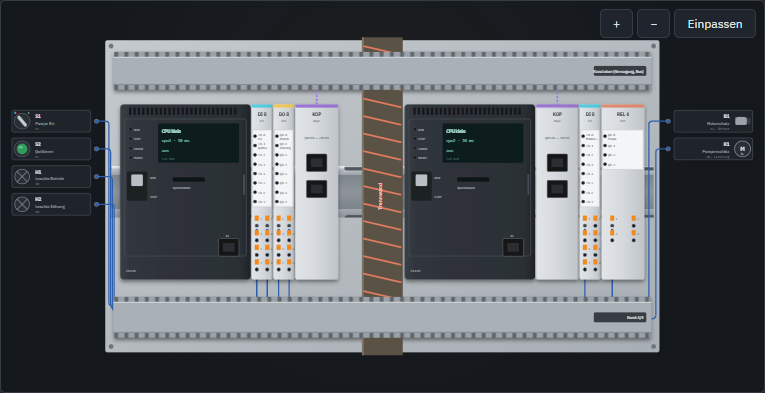
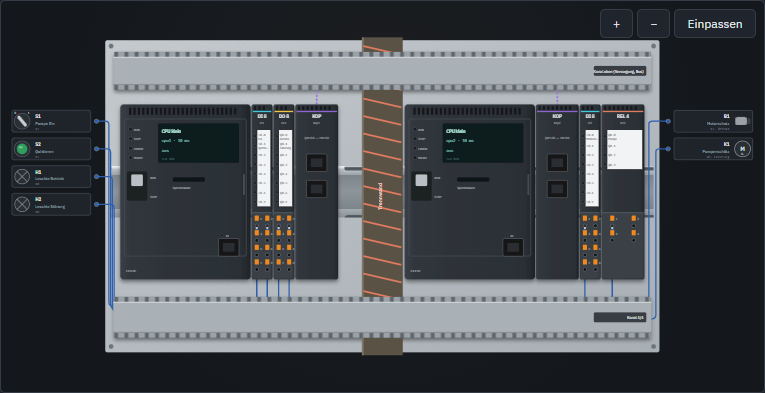
style: E/A-Baugruppen im Gehäuse und Farbschema der CPU

Changed region(s): [[0.6915, 0.2443, 0.8418, 0.7328], [0.3307, 0.2443, 0.451, 0.7328]]

diff --git a/apps/game/src/components/cabinet/Hardware.tsx b/apps/game/src/components/cabinet/Hardware.tsx
@@ -448,14 +448,42 @@ export function IoFront({
   const rowH = perCol ? Math.min(6.4, 52 / perCol) : 0;
   const narrow = colW < 16;
   const symChars = narrow ? 8 : 11;
+  const termTop = y + h - 46;
   return (
     <g className="hw-io">
-      <rect x={left} y={y} width={w} height={h} rx={1.6} fill="url(#hw-io)" />
-      <rect x={left} y={y} width={w} height={2.2} rx={1} fill={stripe} opacity={0.85} />
-      <text x={left + w / 2} y={y + 8} className="hw-name">
+      <rect x={left} y={y} width={w} height={h} rx={1.6} fill="url(#hw-housing)" />
+      {/* Lüftungsschlitze wie an der CPU */}
+      {Array.from({ length: Math.max(1, Math.floor((w - 3) / 3)) }, (_, i) => (
+        <rect
+          key={i}
+          x={left + 1.8 + i * 3}
+          y={y + 1.2}
+          width={1.4}
+          height={2.6}
+          rx={0.5}
+          fill="#15181B"
+        />
+      ))}
+      {/* Kennfarbe der Baugruppe */}
+      <rect x={left + 0.8} y={y + 4.4} width={w - 1.6} height={0.9} rx={0.4} fill={stripe} />
+      {/* Klemmenblock */}
+      {rows > 0 && (
+        <g>
+          <rect
+            x={left + 0.5}
+            y={termTop}
+            width={w - 1}
+            height={h - (termTop - y) - 0.6}
+            rx={1}
+            fill="#3A4047"
+          />
+          <rect x={left + 0.5} y={termTop} width={w - 1} height={0.5} fill="#596169" />
+        </g>
+      )}
+      <text x={left + w / 2} y={y + 9.4} className="hw-name">
         {title ?? tr(t.name)}
       </text>
-      <text x={left + w / 2} y={y + 12.2} className="hw-sub">
+      <text x={left + w / 2} y={y + 13.2} className="hw-sub">
         {id}
       </text>
       {t.alarms && (
@@ -464,17 +492,20 @@ export function IoFront({
         </text>
       )}
       {/* Beschriftungsstreifen */}
-      {rows > 0 && (
-        <rect
-          x={left + 0.8}
-          y={y + 17.5}
-          width={w - 1.6}
-          height={perCol * rowH + 1.5}
-          fill="#F4F5F6"
-          stroke="#C3C8CD"
-          strokeWidth={0.25}
-        />
-      )}
+      {rows > 0 &&
+        Array.from({ length: cols }, (_, col) => (
+          <rect
+            key={`strip${col}`}
+            x={left + 0.8 + col * colW + 3}
+            y={y + 17.5}
+            width={colW - 3.4}
+            height={perCol * rowH + 1.5}
+            rx={0.4}
+            fill="#F2F3F4"
+            stroke="#15181B"
+            strokeWidth={0.35}
+          />
+        ))}
       {Array.from({ length: rows }, (_, ch) => {
         const col = Math.floor(ch / perCol);
         const cx0 = left + 0.8 + col * colW;
@@ -487,20 +518,20 @@ export function IoFront({
         const addr = addresses[ch]?.replace('%', '') ?? `${ch}`;
         const sym = symbols[ch];
         const second = sym ?? (analog && ranges[ch] ? RANGE_LABEL[ranges[ch]!] : undefined);
-        const tx = cx0 + 3.6;
+        const tx = cx0 + 3.8;
         return (
           <g key={ch}>
             {analog ? (
-              <Led x={cx0 + 1.6} y={cy} r={0.9} on={fault} color={LED.red} />
+              <Led x={cx0 + 1.5} y={cy} r={0.85} on={fault} color={LED.red} />
             ) : (
-              <Led x={cx0 + 1.6} y={cy} r={1} on={v === true} color={LED.green} />
+              <Led x={cx0 + 1.5} y={cy} r={0.95} on={v === true} color={LED.green} />
             )}
             <text x={tx} y={second ? cy - 0.4 : cy + 0.9} className="hw-addr">
               {addr}
             </text>
             {analog && (
               <g>
-                <rect x={cx0 + colW - 4.6} y={cy - 2.2} width={3.6} height={1.1} fill="#C9CED3" />
+                <rect x={cx0 + colW - 4.6} y={cy - 2.2} width={3.6} height={1.1} fill="#D5D9DD" />
                 <rect
                   x={cx0 + colW - 4.6}
                   y={cy - 2.2}
@@ -557,8 +588,8 @@ export function IoFront({
               cx={p.x}
               cy={p.y}
               r={1.2}
-              fill={wired[ch] ? '#3B4148' : '#1E2226'}
-              stroke="#80878E"
+              fill={wired[ch] ? '#2A2F35' : '#121417'}
+              stroke="#6E767E"
               strokeWidth={0.3}
             />
             {wired[ch] && (

diff --git a/apps/game/src/styles.css b/apps/game/src/styles.css
@@ -2617,3 +2617,24 @@ code {
 .analyzer .cursor {
   stroke-dasharray: none;
 }
+
+/* ---------- E/A-Baugruppen im Gehäuse der CPU ---------- */
+
+.hw-io .hw-name {
+  fill: #e4e7ea !important;
+}
+.hw-io .hw-sub {
+  fill: #9aa4ae !important;
+}
+.hw-io .hw-sub-accent {
+  fill: #f4a64b !important;
+}
+.hw-io .hw-term-no {
+  fill: #aab2ba !important;
+}
+.hw-io .hw-addr {
+  fill: #1c2126 !important;
+}
+.hw-io .hw-sym {
+  fill: #4d5760 !important;
+}

diff --git a/CHANGELOG.md b/CHANGELOG.md
@@ -1,5 +1,12 @@
 # Changelog
 
+## D6.1 – E/A-Baugruppen im Gehäuse der CPU (2026-10-29)
+
+- E/A-Baugruppen, Koppelmodul und E/A-Feld der Kompakt-CPU im selben anthrazitfarbenen Gehäuse wie
+  die CPU: Lüftungsschlitze, schmale Kennfarbe statt farbigem Kopf, helle Beschriftung auf dunkler
+  Front, Kanal-LEDs auf der Front neben weißen Beschriftungsstreifen, dunkler Klemmenblock mit
+  orangen Betätigern
+
 ## D6 – Zeitdiagramm, Prozessansicht, Feinschliff, Abnahme (2026-10-29)
 
 - Zeitdiagramm neu: Ist kräftig (Bool cyan, Analog violett, Anlagenwerte gelb), Soll als helles
